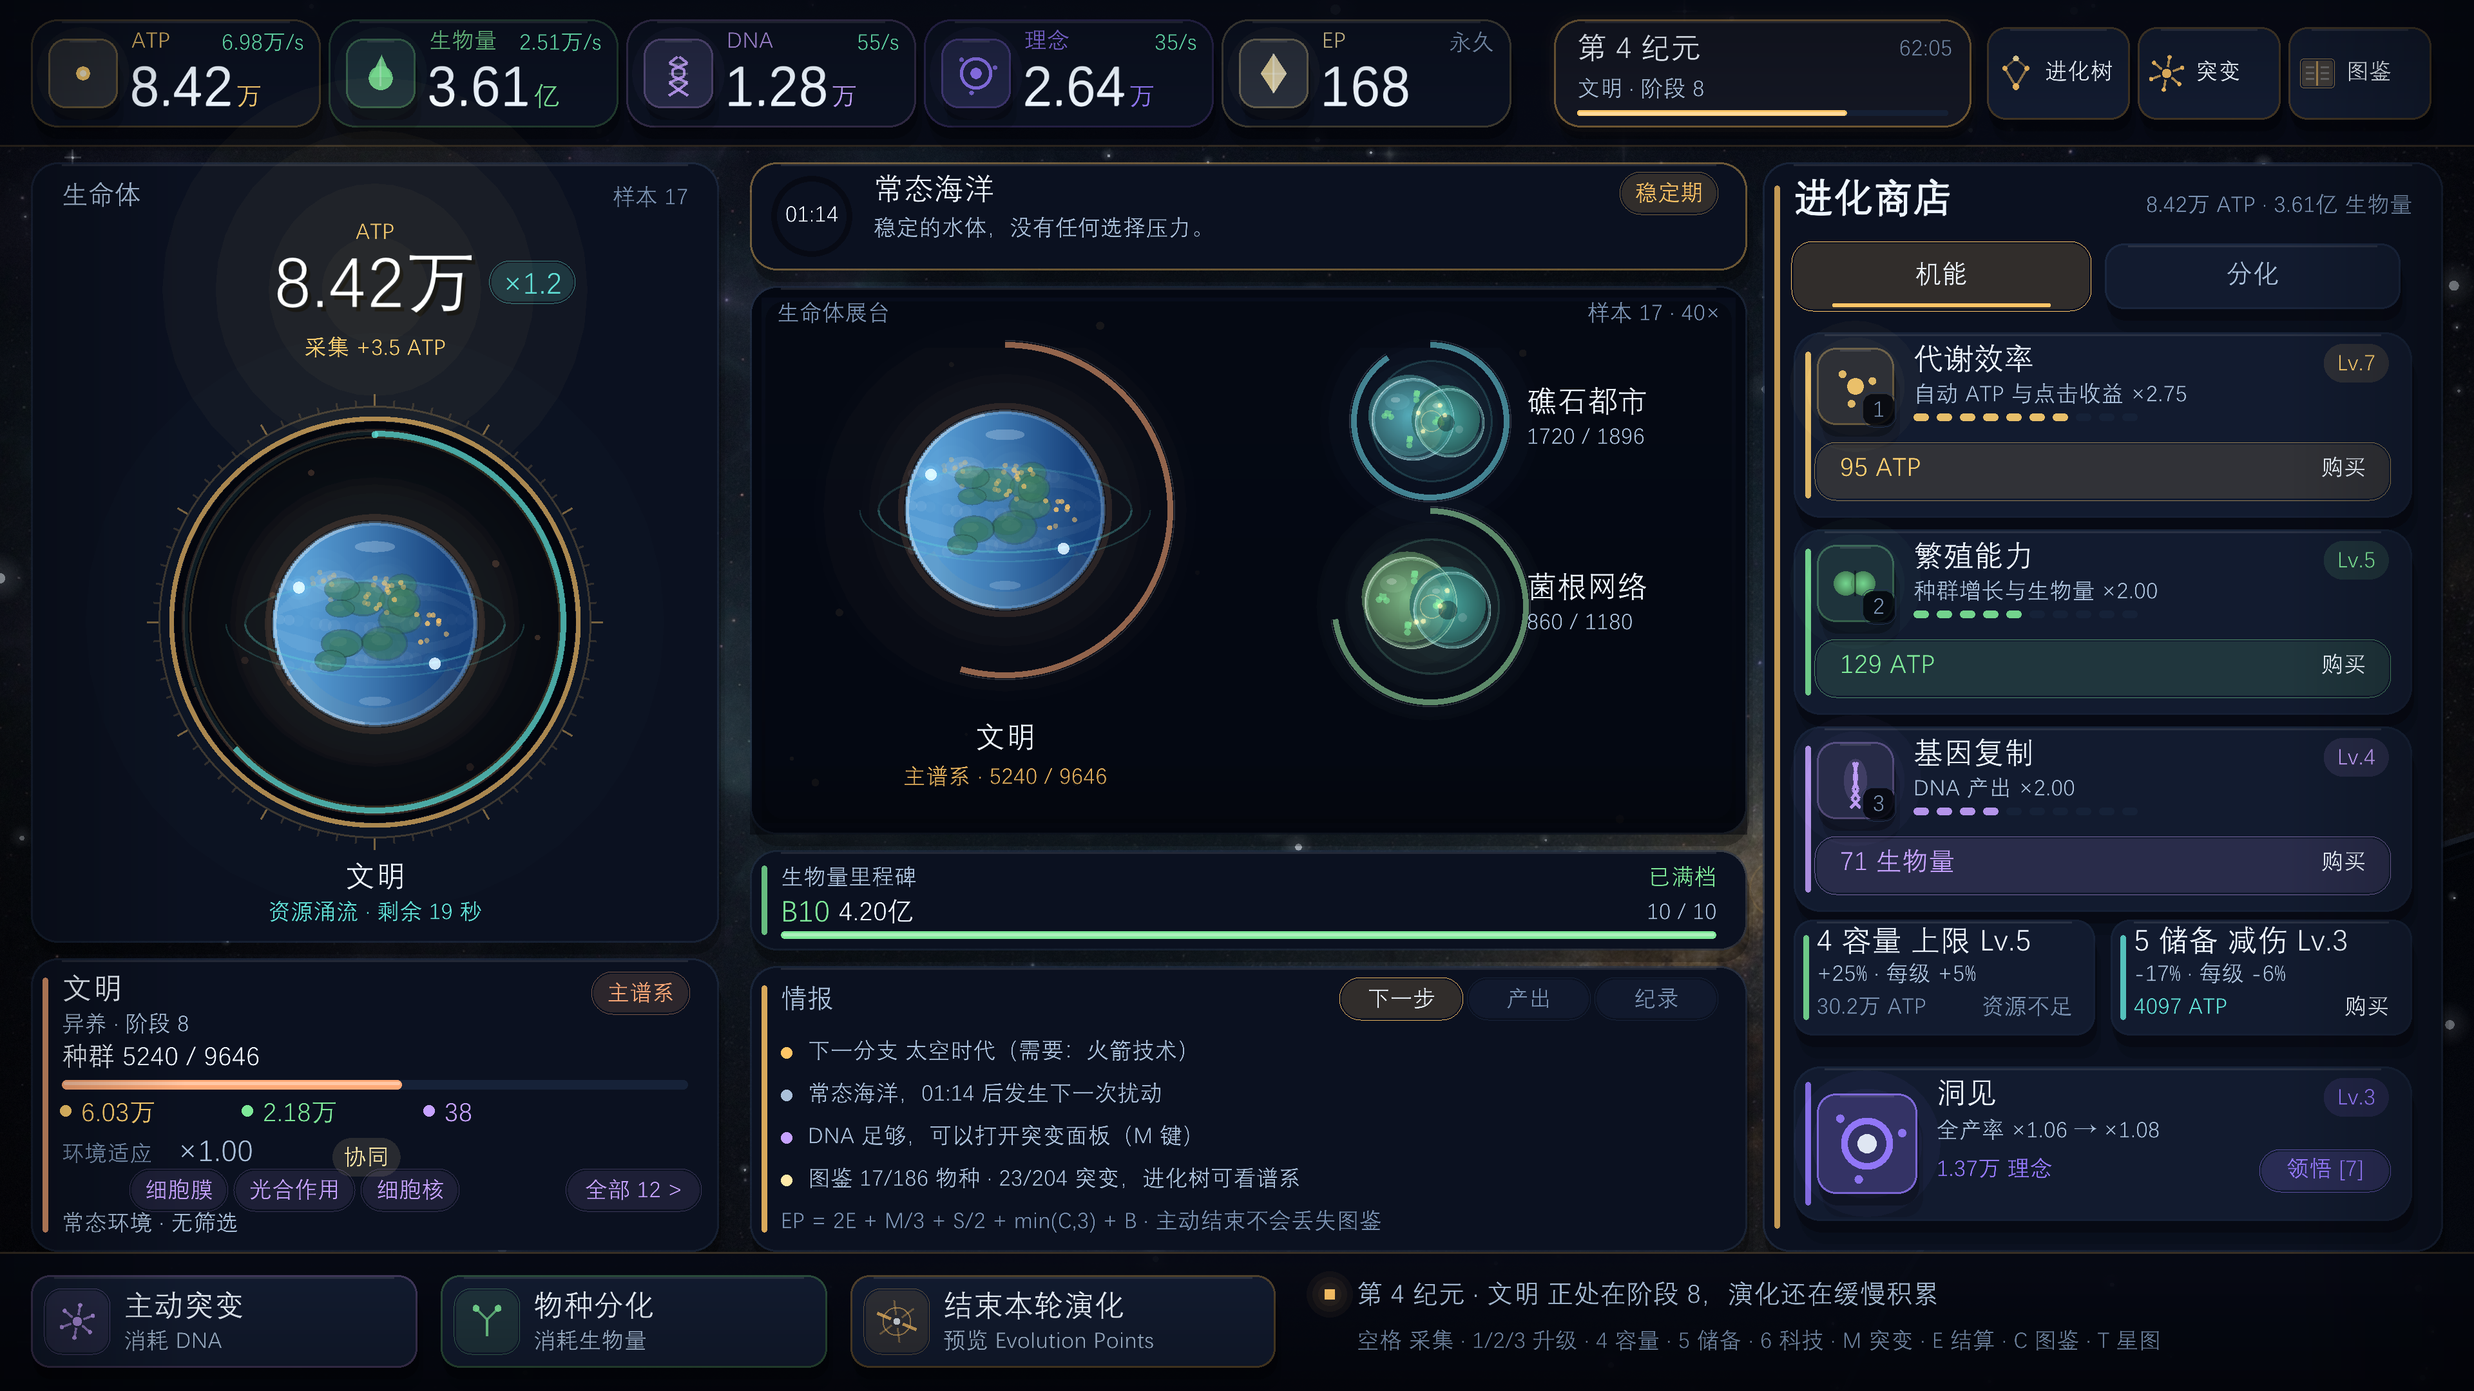
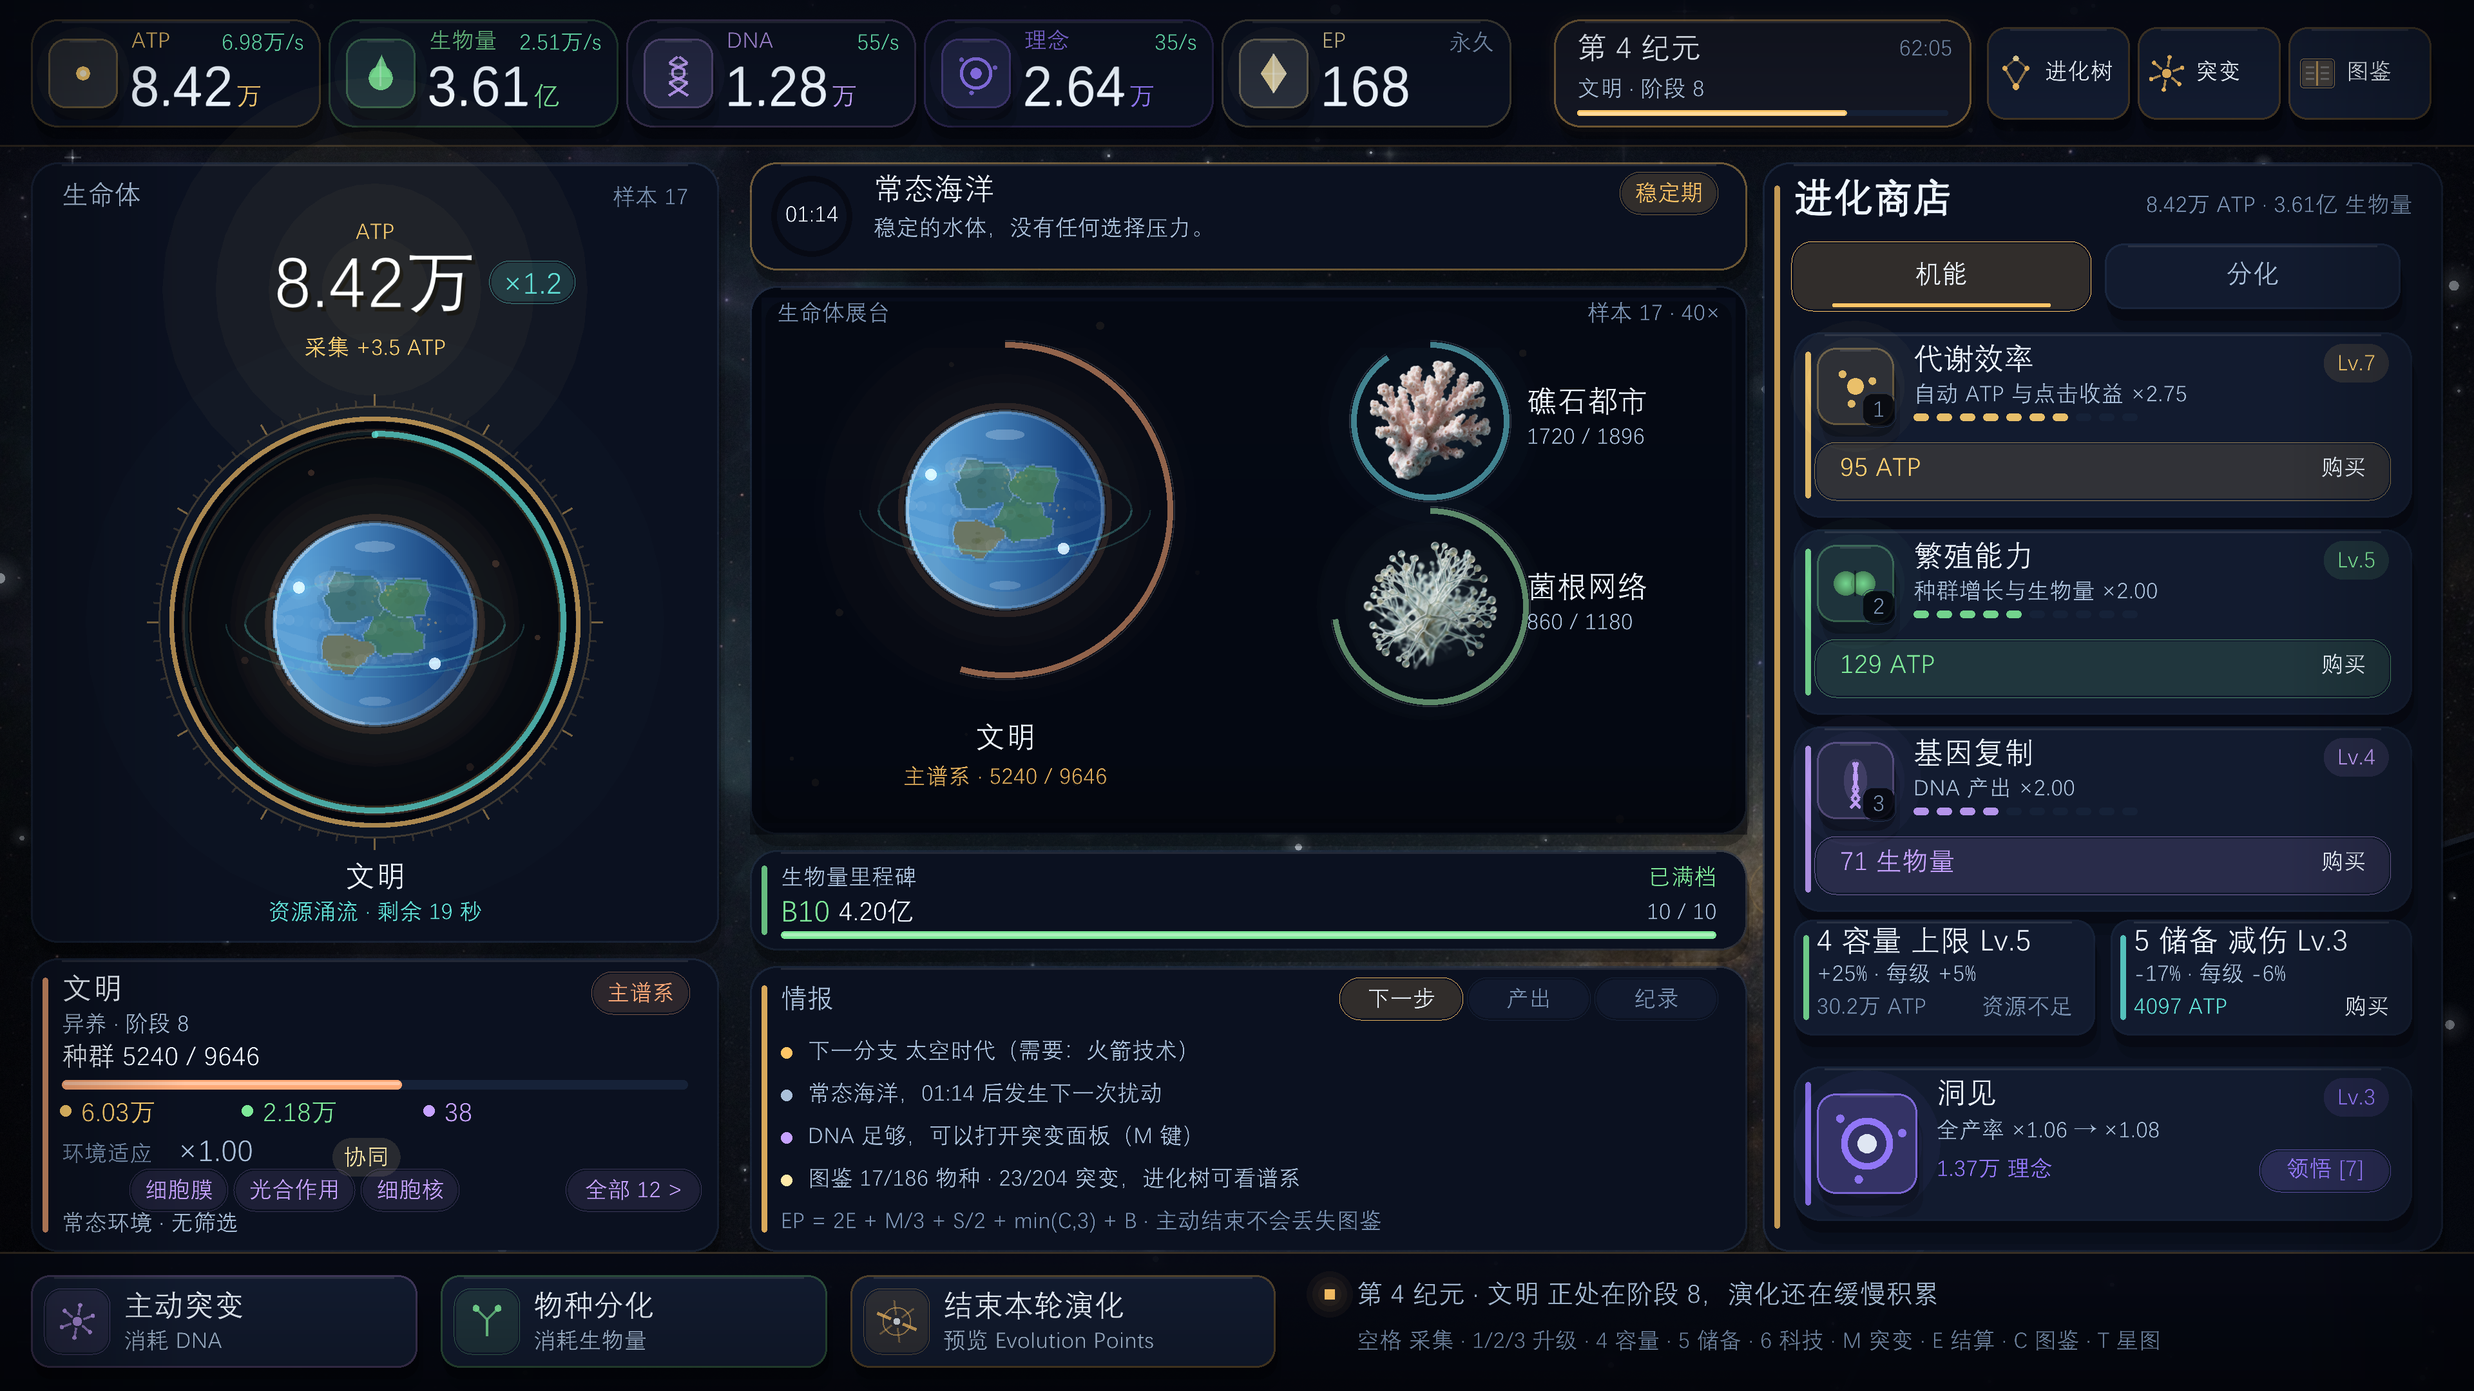
feat: 19 张形态插画内嵌进单文件 exe，交付物更新到标本摄影风
- embedded.h/c 新增 EMB_TEXM_FIRST..LAST 与 19 个 objcopy 符号表，tex.c 优先从内存解码
- Makefile 用 MORPH_EMB_LIST 批量生成 19 条 objcopy 规则并加入 dist 链接
- 单文件 exe 71 MB：空目录导出 25 张 4K 截图，展台标本贴图与扩张卡均正常
- README 更新体积与内嵌清单；deliverables/ 截图与 docs/screens/final/ 同步重拍

diff --git a/include/ui_glyphs.h b/include/ui_glyphs.h
@@ -5,10 +5,10 @@
 #define UI_GLYPH_PART_COUNT 4
 
 static const char *const UI_GLYPH_PARTS[UI_GLYPH_PART_COUNT] = {
-    "·×÷—‘’“”…‰Ⅰ←↑→↓≤≥▲▼◆○●★☆、。「」『』【】一丁七万三上下不与专且世业东丝丢两严个中丰串为主久么之乐乘也书买乳了事二于云互亚些交产享亮亲人亿什今仍从他付代令以们件任份仿休众优伙会传伤伦伪伴伸伽但位低住体何余作你佳使供依侧便保信修倍倒候借值偏做停储催像儿元充先光免兜入全公共关其具典养内再写农冲决冶冷冻准减凑凝几出击分切划列则刚初删利别到制刷刺刻削前剧剩力办功加劣动助励劲劳勿匀包化区十千升午半协单卟占卡印危即卵卸厂厅历压厌原厨去参又及友双反发取受变叟叠口古句另只叫可台史右叶号吃各合同后向否听启吸吹呢周味呼命和咬品哪哲哺唯商啉喂善喊喜喷嗜嘴器嚼囊四回因团园囱围固国图圆圈土在地场址均坍坐块坚坞坯型垒城域培基堆堡塑塔填境增壁壤士声壳处备复夏外多夜够大天太失头奇奔奖套奶好如妥始娃媒嫁嫌子孔字存孙孢学它宇安完宙定实客室害家容宽宿密富寒寸对导封射将小少尖尘尚就尺尽尾局层居屏屑展履山屿岔",
-    "岗岛岩岸峰崩巢工左巨差己已巴币市布帆师帘帝带席帮常幕干平年并幸庇序库应底店度座廓延建开异式引张弯弱弹强归当录形彩往征径待很得徙循微徽心必忆志忘忙快念态怎思急性总恐恒息恰恶恼悟您悬情惊惩惯想意感愿慢慧成我或截戴户房所扁手才扎打扣执扩扫扬扰批找承技把抓投抗折护报抬抱抵抽担拉拍拐拖拟择拽拿持挂指按挑挖挡挨挪振捎捕损换据授掉掌排掘探接控推描提插搬搭摆撑撞播操擎攒支收改攻放政故效教散数敲整文料断新方施旁旋族无日旧早时昆明易星昨是显晒晚普景晶智暂暖暗曲更替最月有期未末本术朵机杂权材束条来板极构林枚果枝架某柔查柱栅标栉栏树栖校样核根格框案桌档桥桨梦梯梳森植楼概榨槽模横次欢欧欺款歇歌止正此步武殖段母每毒比毛民气氢氧氮水永汐池汤汽沟没河油沼沿泉法泡波泥注泵泽洋洞活派流测济浪浮海消涌涨涯液淡深混清渗渡温游溃源滋滚满滤滴漂漏演潜潮激火灯灰灵灼炉炬炭点炼烈烟烦烧烫热烷焦然煤照熔熵燃爆爬片版牧物牵特状独猛率王玩环现",
-    "玻珊珠班球理瑚璃甜生用田由甲电画界留疫白百的皮皿益盐盔盖盘盛盟目直相盾省看真眠眼着睡瞬知矩石矿码砗破础硅硝硫硬确碎碑碗碰碱磲礁示社祖神离禽种科秒租积称移稀程稳穴空穿突窒窗立站章童端符第等筑答筛签简算管箭米类粉粒粗精糖系素索紧紫累繁纠红纤约级纪纯纳纸纹线组细织终经结绕给络绝统继续绳维绵综绿缆缓编缘缝缠缩缺网罚置羊美群羽翼老考者耐耕耗耦聊联聚肉肌肠肢肤肥肺胀背胎胜胞胶能脂脆脉脊脏脑脚脾腐腔腕腰腺膜膨臂自航舰船艇色艺节花苏苔苗范草获菊菌菜营落葵蒸蓝蔽蕨薄藏藓藻虚虫虹蚁蛇蛋蜂蜓蜻蝎螅融螯螺蠕血行衣补表衰袋被裂装裸裹西要见观规视览角解触言警计认让议记讲许论设访识试诗话该语说请读课谁调谈谐谢谱象贝负责败账货质购贴贸费资赏走赶起趁超越足跃跑距跟跨路踩身躯车轨转轮软轴轻载辆辑辰边达迁过迎运近返还这进远连述追退送适逆选透递通速造逻遍道遗遮那邦邻部都酋配酒酶酷酸采里重野量金鉴针钙钱铁铜银铸铺链锁锋错键镜长门闪",
-    "闭问间闻阅阈队防阳阵阶附际陆陌降限除陨陶随隔障难集雨零雾需霉霸霾青静非靠面靶鞭韧音页项顺顾顿预领颈颌频颗题额风飘飞食餐饭饰饶饼馆首马驱骑骤骨骼高鱼鲎鲸鳃鳍鳔鳗鳞鸡鹉鹦黏黑齐齿龄龙！％（），／：；？￥",
+    "·×÷—‘’“”…‰Ⅰ←↑→↓≤≥▲▼◆○●★☆、。「」『』【】一丁七万三上下不与专且世业东丝丢两严个中丰串为主久么之乐乘也书买乳了事二于云互亚些交产享亮亲人亿什今仍从他付代令以们件任份仿休众优伙会传伤伦伪伴伸伽但位低住体何余作你佳使供依侧便保信修倍倒候借值偏做停储催像儿元充先光免兜入全公共关其具典养内再写农冲决冶冷冻准减凑凝几出击分切划列则刚初删利别到制刷刺刻削前剧剩力办功加劣动助励劲劳勿匀包化区十千升午半协单卟占卡印危即卵卸厂厅历压厌原厨去参又及友双反发取受变叟叠口古句另只叫可台史右叶号吃各合同后向否听启吸吹呢周味呼命和咬品哪哲哺唯商啉喂善喊喜喷嗜嘴器噪嚼囊四回因团园囱围固国图圆圈土在地场址均坍坐块坚坞坯型垒城域培基堆堡塑塔填境增壁壤士声壳处备复夏外多夜够大天太失头奇奔奖套奶好如妥始娃媒嫁嫌子孔字存孙孢学它宇安完宙定实客室害家容宽宿密富寒寸对导封射将小少尖尘尚就尺尽尾局层居屏屑展履山屿",
+    "岔岗岛岩岸峰崩巢工左巨差己已巴币市布帆师帘帝带席帮常幕干平年并幸庇序库应底店度座廓延建开异式引张弯弱弹强归当录形彩影往征径待很得徙循微徽心必忆志忘忙快念态怎思急性总恐恒息恰恶恼悟您悬情惊惩惯想意感愿慢慧成我或截戴户房所扁手才扎打扣执扩扫扬扰批找承技把抓投抗折护报抬抱抵抽担拉拍拐拖拟择拽拿持挂指按挑挖挡挨挪振捎捕损换据授掉掌排掘探接控推描提插搬搭摄摆撑撞播操擎攒支收改攻放政故效教散数敲整文料断新方施旁旋族无日旧早时昆明易星昨是显晒晚普景晶智暂暖暗曲更替最月有期未末本术朵机杂权材束条来板极构林枚果枝架某柔查柱栅标栉栏树栖校样核根格框案桌档桥桨梦梯梳森植楼概榨槽模横次欢欧欺款歇歌止正此步武殖段母每毒比毛民气氢氧氮水永汐池汤汽沟没河油沼沿泉法泡波泥注泵泽洋洞活派流测济浪浮海消涌涨涯液淡深混清渗渡温游溃源滋滚满滤滴漂漏演潜潮激火灯灰灵灼炉炬炭点炼烈烟烦烧烫热烷焦然煤照熔熵燃爆爬片版牧物牵特状独猛率王",
+    "玩环现玻珊珠班球理瑚璃甜生用田由甲电画界留疫白百的皮皿益盐盔盖盘盛盟目直相盾省看真眠眼着睡瞬知矩石矿码砗破础硅硝硫硬确碎碑碗碰碱磲礁示社祖神离禽种科秒租积称移稀程稳穴空穿突窒窗立站章童端符第等筑答筛签简算管箭米类粉粒粗精糖系素索紧紫累繁纠红纤约级纪纯纳纸纹线组细织终经结绕给络绝统继续绳维绵综绿缆缓编缘缝缠缩缺网罚置羊美群羽翼老考者耐耕耗耦聊联聚肉肌肠肢肤肥肺胀背胎胜胞胶能脂脆脉脊脏脑脚脾腐腔腕腰腺膜膨臂自航舰船艇色艺节花苏苔苗范草获菊菌菜营落葵蒸蓝蔽蕨薄藏藓藻虚虫虹蚁蛇蛋蜂蜓蜻蝎螅融螯螺蠕血行衣补表衰袋被裂装裸裹西要见观规视览角解触言警计认让议记讲许论设访识试诗话该语说请读课谁调谈谐谢谱象贝负责败账货质购贴贸费资赏走赶起趁超越足跃跑距跟跨路踩身躯车轨转轮软轴轻载辆辑辰边达迁过迎运近返还这进远连述追退送适逆选透递通速造逻遍道遗遮那邦邻部都酋配酒酶酷酸采里重野量金鉴针钙钱铁铜银铸铺链锁锋错键镜",
+    "长门闪闭问间闻阅阈队防阳阵阶附际陆陌降限除陨陶随隔障难集雨零雾需霉霸霾青静非靠面靶鞭韧音页项顺顾顿预领颈颌频颗题额风飘飞食餐饭饰饶饼馆首马驱骑骤骨骼高鱼鲎鲸鳃鳍鳔鳗鳞鸡鹉鹦黏黑齐齿龄龙！％（），／：；？￥",
 };
 
 #endif /* UI_GLYPHS_H */

diff --git a/src/embedded.c b/src/embedded.c
@@ -26,6 +26,22 @@ extern const unsigned char _binary_buy_wav_end[];
 extern const unsigned char _binary_evolve_wav_start[];
 extern const unsigned char _binary_evolve_wav_end[];
 
+/* 19 张形态族插画：objcopy 符号取自 build/emb/ 下的短文件名。
+ * 列表顺序必须与 tex.h 的 TexMorph 完全对应。 */
+#define EMB_MORPH_LIST(X) \
+    X(coccus)    X(rod)       X(eukaryote) X(colony) X(tissue) \
+    X(symbio)    X(neural)    X(techno)    X(diatom) X(ciliate) \
+    X(amoeba)    X(filament)  X(spiral)    X(fish)   X(jelly) \
+    X(fern)      X(fungus)    X(coral)     X(hive)
+
+#define EMB_MORPH_DECL(name) \
+    extern const unsigned char _binary_morph_##name##_png_start[]; \
+    extern const unsigned char _binary_morph_##name##_png_end[];
+EMB_MORPH_LIST(EMB_MORPH_DECL)
+
+#define EMB_MORPH_START(name) _binary_morph_##name##_png_start,
+#define EMB_MORPH_END(name)   _binary_morph_##name##_png_end,
+
 static const unsigned char *const k_start[EMB_COUNT] = {
     _binary_font_ttf_start,
     _binary_nebula_png_start,
@@ -33,6 +49,7 @@ static const unsigned char *const k_start[EMB_COUNT] = {
     _binary_click_wav_start,
     _binary_buy_wav_start,
     _binary_evolve_wav_start,
+    EMB_MORPH_LIST(EMB_MORPH_START)
 };
 
 static const unsigned char *const k_end[EMB_COUNT] = {
@@ -42,6 +59,7 @@ static const unsigned char *const k_end[EMB_COUNT] = {
     _binary_click_wav_end,
     _binary_buy_wav_end,
     _binary_evolve_wav_end,
+    EMB_MORPH_LIST(EMB_MORPH_END)
 };
 
 #endif /* EMBED_ASSETS */

diff --git a/src/tex.c b/src/tex.c
@@ -97,10 +97,17 @@ static void morph_ensure(int id)
     if (g_morph_tried[id]) return;
     g_morph_tried[id] = true;
 
-    const char *path = TextFormat("%s/%s", MORPH_DIR, k_morph_file[id]);
-    if (!FileExists(path)) return;
-
-    Image img = LoadImage(path);
+    /* 单文件版从内存解码；开发版仍从 assets/ 读盘，方便热替换。 */
+    Image img;
+    const unsigned char *emb = NULL;
+    int emb_size = 0;
+    if (emb_get(emb_morph_id(id), &emb, &emb_size)) {
+        img = LoadImageFromMemory(".png", emb, emb_size);
+    } else {
+        const char *path = TextFormat("%s/%s", MORPH_DIR, k_morph_file[id]);
+        if (!FileExists(path)) return;
+        img = LoadImage(path);
+    }
     if (!IsImageValid(img)) return;
 
     if (img.width > MORPH_MAX_TEX || img.height > MORPH_MAX_TEX) {

diff --git a/include/embedded.h b/include/embedded.h
@@ -20,8 +20,15 @@ typedef enum {
     EMB_CLICK,        /* assets/sfx/click.wav    */
     EMB_BUY,          /* assets/sfx/buy.wav      */
     EMB_EVOLVE,       /* assets/sfx/evolve.wav   */
+    /* 19 张形态族插画，顺序必须与 tex.h 的 TexMorph 一致；
+     * 用 emb_morph_id() 把形态族号换算成资源 id。 */
+    EMB_TEXM_FIRST,
+    EMB_TEXM_LAST = EMB_TEXM_FIRST + 18,
     EMB_COUNT
 } EmbId;
+
+#define EMB_MORPH_COUNT 19
+#define emb_morph_id(morph) ((EmbId)(EMB_TEXM_FIRST + (int)(morph)))
 
 /* 取内嵌资源。取到则 *data 指向只读数据、*size 是字节数，返回 true。
  * 编译时没内嵌（普通构建）就返回 false。 */

diff --git a/README.md b/README.md
@@ -71,11 +71,11 @@ mingw32-make dist          # 单文件版：资源编进 exe → dist/TreeOfLife
 
 ### 单文件版（免安装、不用旁边的资源目录）
 
-`mingw32-make dist` 产出 `dist/TreeOfLife.exe`（约 22 MB）：用 `objcopy -I binary` 把
-`assets/` 里的等线字体、两张纹理、三个音效编成目标文件链进可执行文件，运行时由
+`mingw32-make dist` 产出 `dist/TreeOfLife.exe`（约 71 MB）：用 `objcopy -I binary` 把
+`assets/` 里的等线字体、两张纹理、三个音效、19 张形态族插画编成目标文件链进可执行文件，运行时由
 `src/embedded.c` 从内存解码（`LoadFontFromMemory` / `LoadImageFromMemory` /
 `LoadWaveFromMemory`），并用 `-static -static-libgcc` 静态链接 raylib 与 GCC 运行时。
-拷到任何目录双击即可开玩，只依赖系统自带的 user32/gdi32/opengl32 等 DLL。
+拷到任何目录双击即可开玩，只依赖系统自带的 user32/gdi32/opengl32 等 DLL。19 张标本图按 1536px 原尺寸进显存，4K 截图里与 UI 文字接近 1:1，空目录实测导出 25 张截图、生物贴图正常。
 
 普通构建（`mingw32-make`）不带 `-DEMBED_ASSETS`，`emb_get()` 恒返回 false，仍按
 `assets/` 相对路径读盘 —— 开发期换图、换字体立刻生效，不用重编内嵌数据。
